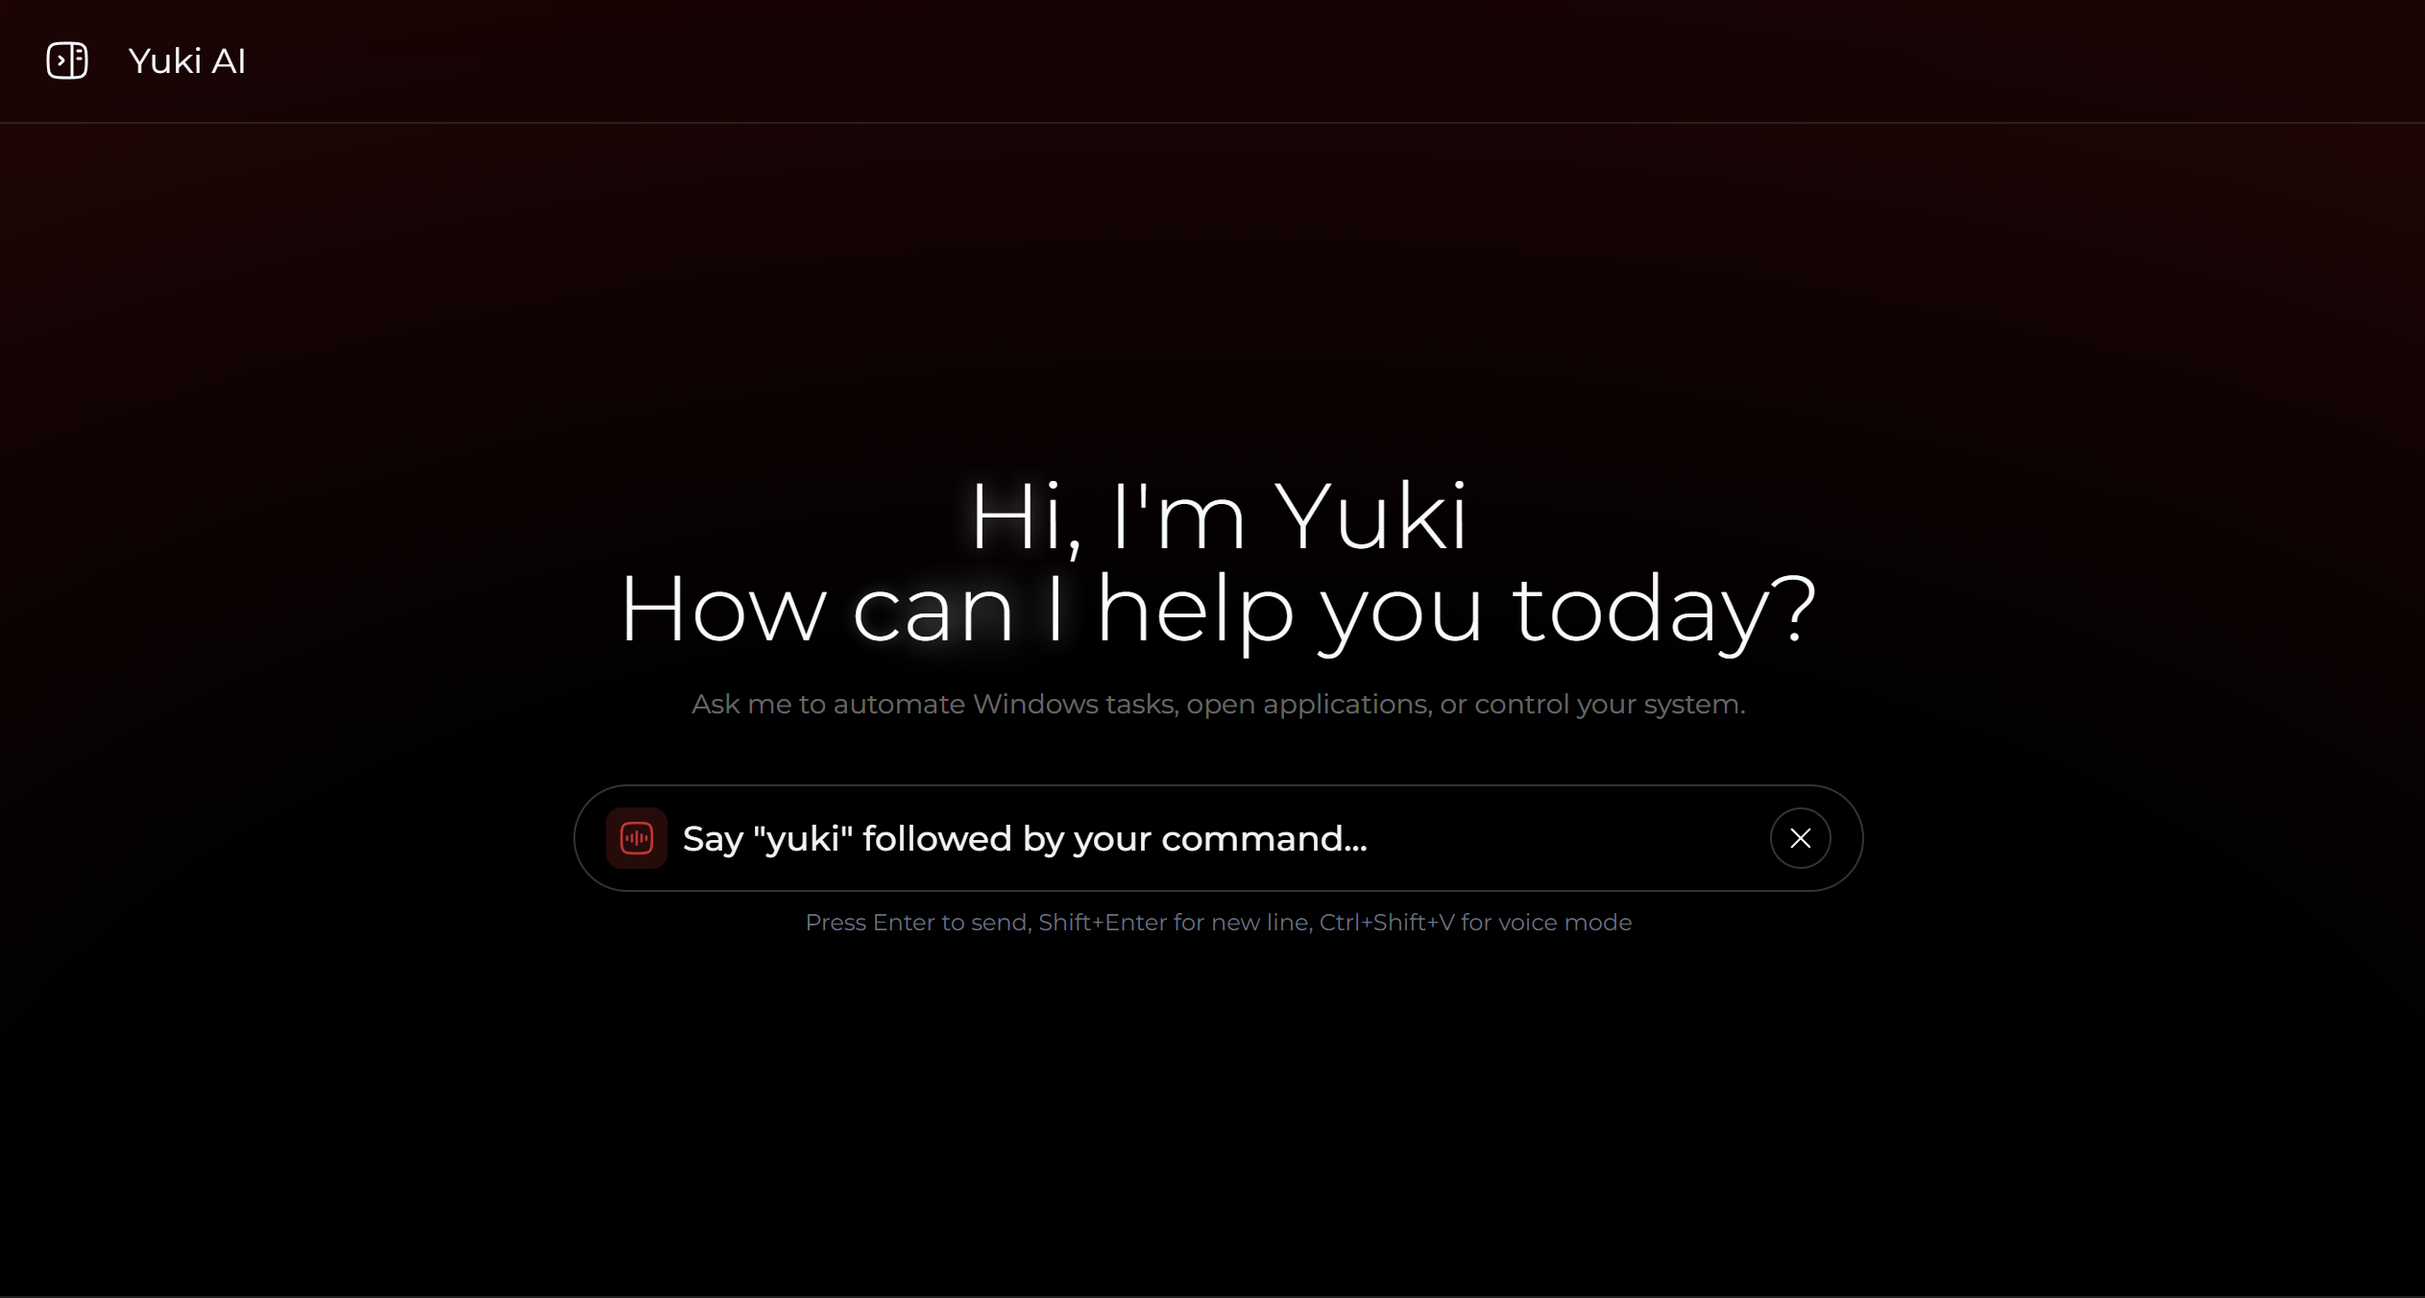
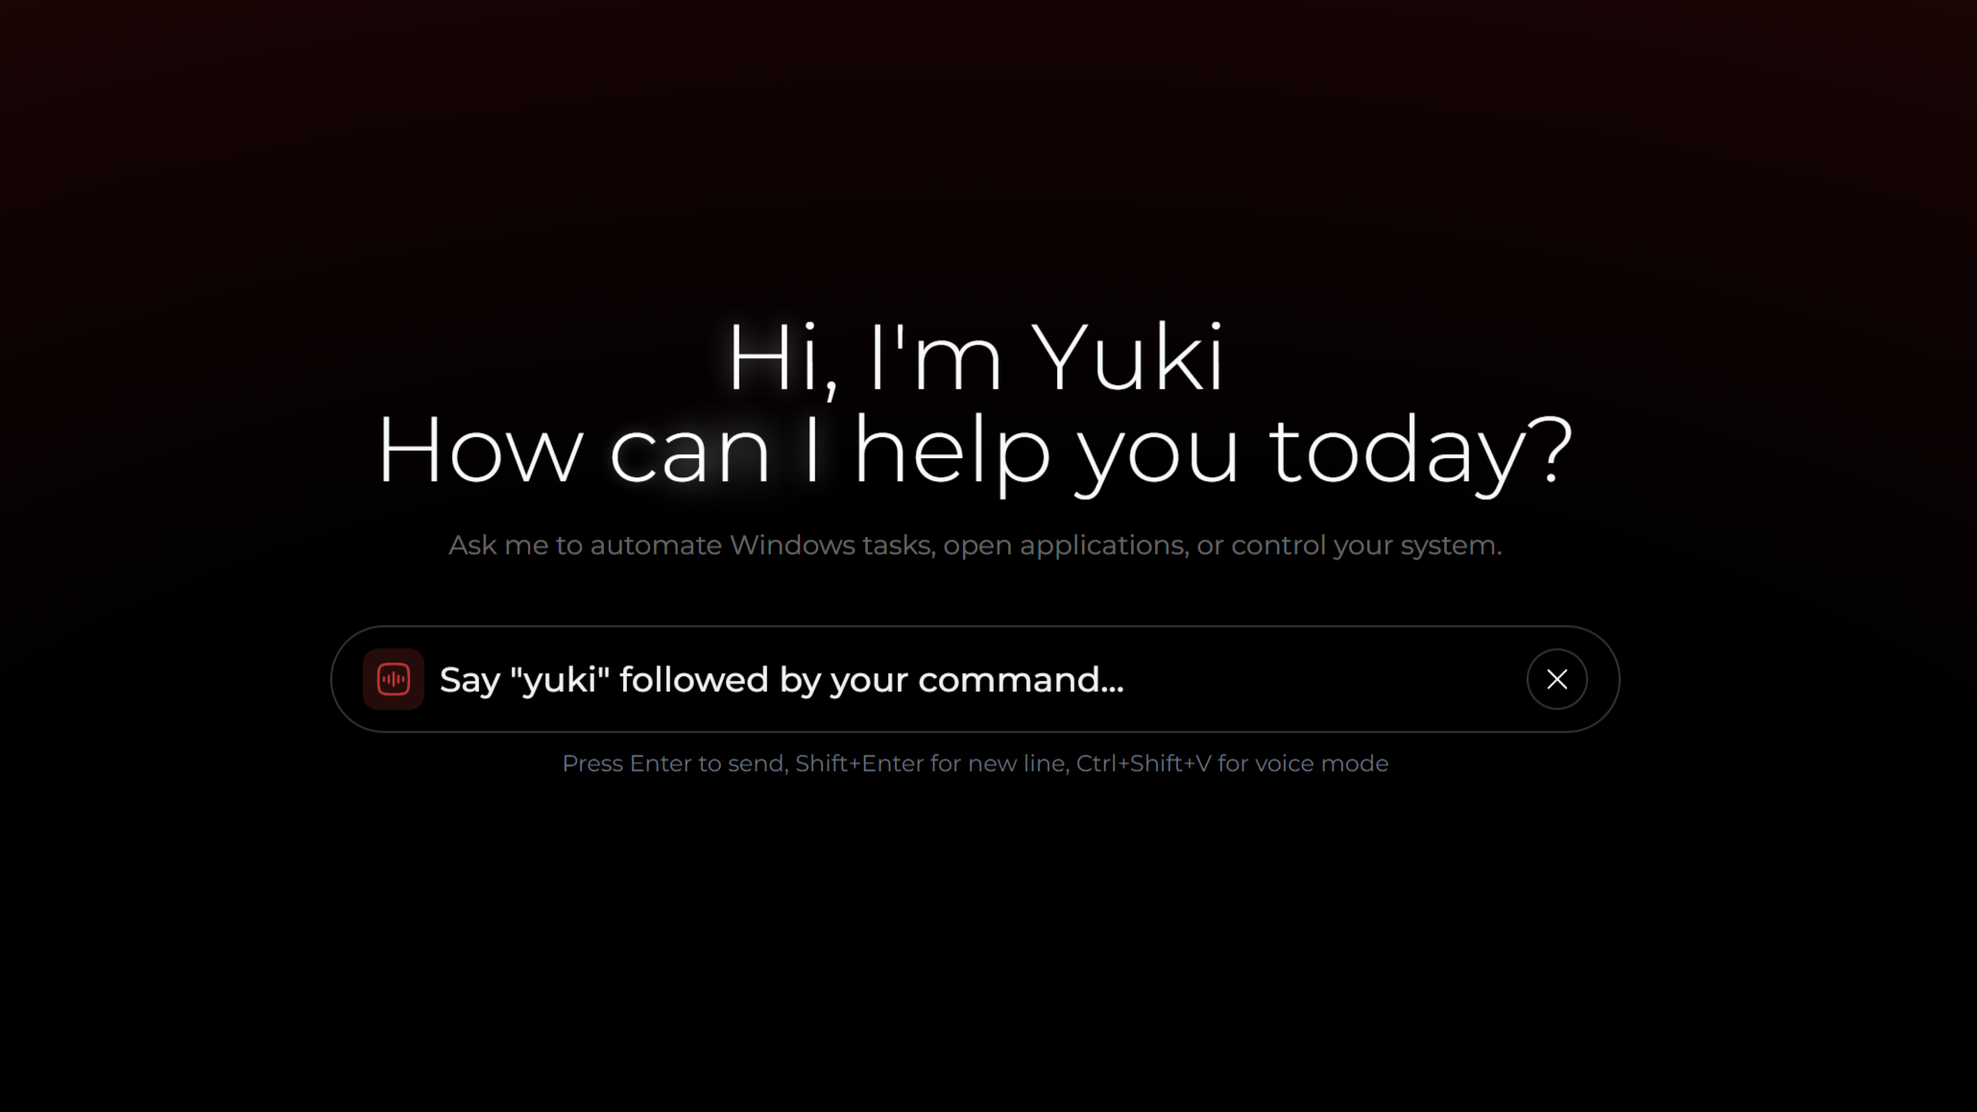
Enhance UI components: Updated FAQ and Final CTA sections with improved typography and text shadow effects. Refined button styles for better visibility and responsiveness. Adjusted layout in Pricing section for improved spacing and alignment. Commented out unused feature descriptions in Features com

diff --git a/components/pricing.tsx b/components/pricing.tsx
@@ -59,7 +59,7 @@ const plans: Plan[] = [
 
 export default function Pricing() {
   return (
-    <section id="pricing" className="w-full bg-zinc-950 py-32 lg:py-40 relative">
+    <section id="pricing" className="w-full bg-zinc-950 py-20 sm:py-32 lg:py-40 relative">
       <div className="max-w-7xl mx-auto px-4 sm:px-6 lg:px-8">
         <motion.div
           className="text-center mb-8"
@@ -79,23 +79,23 @@ export default function Pricing() {
           <p className="text-white/70 text-2xl max-w-5xl mx-auto font-thin mb-20">Simple plans that grow with you</p>
         </motion.div>
 
-        <div className="flex flex-col md:flex-row items-center justify-center gap-4 lg:gap-10 max-w-7xl mx-auto flex-wrap">
+        <div className="flex flex-col sm:flex-row items-center justify-center gap-8 sm:gap-6 lg:gap-10 max-w-7xl mx-auto flex-wrap px-4 sm:px-0">
           {plans.map((plan, idx) => (
             <motion.div
               key={plan.name}
-              className={`rounded-3xl border backdrop-blur-2xl relative overflow-hidden shadow-[0_20px_60px_0_rgba(0,0,0,0.5)] w-full md:w-[300px] lg:w-[360px] min-h-[550px] lg:min-h-[600px] group ${
+              className={`rounded-3xl border backdrop-blur-2xl relative overflow-hidden shadow-[0_20px_60px_0_rgba(0,0,0,0.5)] w-full max-w-sm sm:max-w-none sm:w-[300px] lg:w-[360px] min-h-[500px] sm:min-h-[550px] lg:min-h-[600px] group ${
                 plan.highlight 
                   ? "border-[rgba(251,50,50,0.4)] z-10" 
                   : plan.isContact
                   ? "border-white/20 hover:border-white/30"
                   : "border-white/15 hover:border-white/25"
               }`}
-              initial={{ opacity: 0, y: 30, scale: plan.highlight ? 1 : 1 }}
-              whileInView={{ opacity: 1, y: 0, scale: plan.highlight ? 1.1 : 1 }}
+              initial={{ opacity: 0, y: 30, scale: 1 }}
+              whileInView={{ opacity: 1, y: 0, scale: plan.highlight ? 1.05 : 1 }}
               viewport={{ once: true }}
               transition={{ duration: 0.6, delay: idx * 0.15, ease: [0.16, 1, 0.3, 1] }}
               whileHover={{ 
-                scale: plan.highlight ? 1.13 : 1.03,
+                scale: plan.highlight ? 1.08 : 1.02,
                 transition: { duration: 0.1, ease: "easeOut" }
               }}
               style={{
@@ -118,34 +118,34 @@ export default function Pricing() {
                     "radial-gradient(ellipse 120% 90% at 50% 100%, rgba(255, 80, 120, 0.18), transparent 80%)",
                 }}
               />
-              <div className="relative z-10 flex flex-col h-full px-6 py-8 lg:px-8 lg:py-10">
+              <div className="relative z-10 flex flex-col h-full px-5 py-6 sm:px-6 sm:py-8 lg:px-8 lg:py-10">
                 {/* Header */}
-                <div className="mb-6 lg:mb-8">
-                  <div className="flex flex-col items-center text-center mb-6">
-                    <div className="flex items-center justify-center gap-2 mb-3">
-                      <h3 className="text-white text-2xl lg:text-3xl font-bold">{plan.name}</h3>
+                <div className="mb-4 sm:mb-6 lg:mb-8">
+                  <div className="flex flex-col items-center text-center mb-4 sm:mb-6">
+                    <div className="flex flex-col sm:flex-row items-center justify-center gap-2 mb-2 sm:mb-3">
+                      <h3 className="text-white text-xl sm:text-2xl lg:text-3xl font-bold">{plan.name}</h3>
                       {plan.highlight && (
-                        <span className="px-3 py-1 rounded-full bg-white/30 text-zinc-900 text-xs font-semibold">
+                        <span className="px-2.5 py-0.5 sm:px-3 sm:py-1 rounded-full bg-white/30 text-zinc-900 text-xs font-semibold">
                           Most Popular
                         </span>
                       )}
                     </div>
-                    <div className="flex flex-col items-center gap-1.5 mb-3">
-                      <div className="flex items-baseline gap-2">
+                    <div className="flex flex-col items-center gap-1 sm:gap-1.5 mb-2 sm:mb-3">
+                      <div className="flex items-baseline gap-1.5 sm:gap-2">
                         {plan.highlight && plan.originalPrice && (
-                          <span className="text-white/40 text-xl lg:text-2xl line-through">{plan.originalPrice}</span>
+                          <span className="text-white/40 text-lg sm:text-xl lg:text-2xl line-through">{plan.originalPrice}</span>
                         )}
-                        <span className="text-white text-4xl lg:text-5xl font-bold tracking-tight">{plan.price}</span>
+                        <span className="text-white text-3xl sm:text-4xl lg:text-5xl font-bold tracking-tight">{plan.price}</span>
                         {!plan.isContact && (
                           plan.highlight ? (
-                            <span className="text-white/60 text-sm lg:text-base">one-time</span>
+                            <span className="text-white/60 text-xs sm:text-sm lg:text-base">one-time</span>
                           ) : (
-                            <span className="text-white/60 text-sm lg:text-base">/month</span>
+                            <span className="text-white/60 text-xs sm:text-sm lg:text-base">/month</span>
                           )
                         )}
                       </div>
                     </div>
-                    <p className="text-white/60 text-sm lg:text-base leading-relaxed max-w-sm">{plan.description}</p>
+                    <p className="text-white/60 text-xs sm:text-sm lg:text-base leading-relaxed max-w-sm px-2 sm:px-0">{plan.description}</p>
                   </div>
                 </div>
 
@@ -165,7 +165,7 @@ export default function Pricing() {
                       }
                     }
                   }}
-                  className={`w-full rounded-full px-5 py-3 text-lg font-normal transition-all duration-300 mb-6 lg:mb-8 ${
+                  className={`w-full rounded-full px-4 py-2.5 sm:px-5 sm:py-3 text-base sm:text-lg font-normal transition-all duration-300 mb-4 sm:mb-6 lg:mb-8 ${
                     plan.isContact
                       ? "bg-zinc-950/10 text-white hover:bg-zinc-950/30 border border-white/30 shadow-lg shadow-[rgba(251,50,50,0.4)] hover:shadow-xl hover:shadow-[rgba(251,50,50,0.5)]"
                       : plan.highlight
@@ -189,7 +189,7 @@ export default function Pricing() {
                 </div>
 
                 {/* Features List */}
-                <ul className="space-y-3 lg:space-y-4 flex-1">
+                <ul className="space-y-2.5 sm:space-y-3 lg:space-y-4 flex-1">
                   {plan.features.map((feature, idx) => (
                     <motion.li 
                       key={feature} 
@@ -197,12 +197,12 @@ export default function Pricing() {
                       whileInView={{ opacity: 1, x: 0 }}
                       viewport={{ once: true }}
                       transition={{ delay: idx * 0.1 + 0.3 }}
-                      className="flex items-start gap-3 group"
+                      className="flex items-start gap-2.5 sm:gap-3 group"
                     >
-                      <div className="mt-0.5 w-5 h-5 rounded-full bg-gradient-to-br from-zinc-800 to-zinc-900 border border-white/20 group-hover:border-[rgba(251,50,50,0.5)] flex items-center justify-center shrink-0 transition-all duration-300 group-hover:shadow-md group-hover:shadow-[rgba(251,50,50,0.2)]">
-                        <Check className="w-3 h-3 text-white group-hover:text-[rgba(251,50,50,0.9)] transition-colors duration-300" />
+                      <div className="mt-0.5 w-4 h-4 sm:w-5 sm:h-5 rounded-full bg-gradient-to-br from-zinc-800 to-zinc-900 border border-white/20 group-hover:border-[rgba(251,50,50,0.5)] flex items-center justify-center shrink-0 transition-all duration-300 group-hover:shadow-md group-hover:shadow-[rgba(251,50,50,0.2)]">
+                        <Check className="w-2.5 h-2.5 sm:w-3 sm:h-3 text-white group-hover:text-[rgba(251,50,50,0.9)] transition-colors duration-300" />
                       </div>
-                      <span className="text-white/80 group-hover:text-white text-sm lg:text-base leading-relaxed pt-0.5 transition-colors duration-300">{feature}</span>
+                      <span className="text-white/80 group-hover:text-white text-xs sm:text-sm lg:text-base leading-relaxed pt-0.5 transition-colors duration-300">{feature}</span>
                     </motion.li>
                   ))}
                 </ul>

diff --git a/components/features.tsx b/components/features.tsx
@@ -19,15 +19,12 @@ export type Feature = {
 };
 
 const featureImages: string[] = [
-  "/image.png",
-  "/image3.png",
-  "/next.svg",
-  "/vercel.svg",
-  "/globe.svg",
-  "/window.svg",
-  "/file.svg",
-  "/image.png",
-  "/image3.png",
+  "/GUIAutomation.png",  // Windows GUI Automation
+  "/image3.png",          // Voice Control
+  "/Shell.png",           // Command Execution
+  "/Tools.png",           // 17 Automation Tools
+  "/Memory.png",          // Memory & Context
+  "/Task.png",            // Task Scheduling and Reminders
 ];
 
 const features: Feature[] = [
@@ -51,22 +48,22 @@ const features: Feature[] = [
     title: "Memory & Context",
     description: "Remembers conversation history and maintains context across tasks.",
   },
-  {
-    title: "Program Usage Tracking",
-    description: "Monitor and track application usage patterns.",
-  },
+  // {
+  //   title: "Program Usage Tracking",
+  //   description: "Monitor and track application usage patterns.",
+  // },
   {
     title: "Task Scheduling and Reminders",
     description: "Schedule tasks and set reminders for better productivity.",
   },
-  {
-    title: "Focus Suggestions",
-    description: "Get intelligent suggestions to help maintain focus.",
-  },
-  {
-    title: "Proactive Interruptions",
-    description: "Smart notification system that adapts to your workflow.",
-  },
+  // {
+  //   title: "Focus Suggestions",
+  //   description: "Get intelligent suggestions to help maintain focus.",
+  // },
+  // {
+  //   title: "Proactive Interruptions",
+  //   description: "Smart notification system that adapts to your workflow.",
+  // },
 ];
 
 type FeaturesProps = {
@@ -118,13 +115,17 @@ export default function Features({ onOpen }: FeaturesProps) {
       case 4:
         return <HugeiconsIcon icon={Brain02Icon} {...iconCommon} />;
       case 5:
-        return <HugeiconsIcon icon={AircraftGameIcon} {...iconCommon} />;
-      case 6:
         return <HugeiconsIcon icon={TaskDaily02Icon} {...iconCommon} />;
-      case 7:
-        return <HugeiconsIcon icon={FocusPointIcon} {...iconCommon} />;
-      case 8:
-        return <HugeiconsIcon icon={AppleVisionProIcon} {...iconCommon} />;
+      // case 5 (commented out - Program Usage Tracking):
+      //   return <HugeiconsIcon icon={AircraftGameIcon} {...iconCommon} />;
+      // case 7 (commented out - Focus Suggestions):
+      //   return <HugeiconsIcon icon={FocusPointIcon} {...iconCommon} />;
+      // case 8 (commented out - Proactive Interruptions):
+      //   return <HugeiconsIcon icon={AppleVisionProIcon} {...iconCommon} />;
+      // case 7:
+      //   return <HugeiconsIcon icon={FocusPointIcon} {...iconCommon} />;
+      // case 8:
+      //   return <HugeiconsIcon icon={AppleVisionProIcon} {...iconCommon} />;
       default:
         return null;
     }
@@ -193,7 +194,7 @@ export default function Features({ onOpen }: FeaturesProps) {
                   <img
                     src={featureImages[currentFeatureIndex] ?? "/image.png"}
                     alt={currentFeature.title}
-                    className="absolute inset-0 w-full h-full object-cover object-center group-hover:scale-110 transition-transform duration-700 ease-out"
+                    className="absolute inset-0 w-full h-full object-contain object-center"
                   />
                   <div className="absolute inset-0 bg-gradient-to-t from-zinc-950/60 via-transparent to-transparent" />
                 </div>
@@ -270,7 +271,7 @@ export default function Features({ onOpen }: FeaturesProps) {
                   <img
                     src={active.src ?? "/image.png"}
                     alt={active.title}
-                    className="absolute inset-0 w-full h-full object-cover object-center"
+                    className="absolute inset-0 w-full h-full object-contain object-center"
                   />
                 </div>
               </motion.div>

diff --git a/components/hero.tsx b/components/hero.tsx
@@ -181,7 +181,7 @@
                           onChange={(e) => setEmail(e.target.value)}
                           required
                           type="email"
-                          className="w-full text-lg h-14 pl-6 pr-4 rounded-full bg-orange-950/50 backdrop-blur-xl border border-white/20 text-white placeholder:text-white/50 focus:border-orange-950/50 focus:bg-orange-950/50 focus:shadow-[0_0_30px_rgba(255,180,120,0.3)] transition-all duration-300 placeholder:text-md"
+                          className="w-full lg:text-lg text-sm h-14 pl-6 pr-4 rounded-full bg-orange-950/50 backdrop-blur-xl border border-white/20 text-white placeholder:text-white/50 focus:border-orange-950/50 focus:bg-orange-950/50 focus:shadow-[0_0_30px_rgba(255,180,120,0.3)] transition-all duration-300 placeholder:text-md"
                         />
                       </div>
                       <Button
@@ -248,8 +248,10 @@
                       >
                         <Button
                           variant="outline"
+                          asChild
                           className="h-14 px-7 rounded-full bg-transparent backdrop-blur-xl border border-white/40 text-white hover:bg-white/90 hover:text-black hover:border-white/60 hover:shadow-[0_0_30px_rgba(255,180,120,0.5)] transition-all duration-300 flex items-center gap-2 group overflow-hidden"
                         >
+                          <a href="https://rzp.io/rzp/NuYjrpJa" target="_blank" rel="noopener noreferrer">
                           <motion.div
                             initial={{ opacity: 0, x: -5, rotate: -30 }}
                             animate={{ opacity: 1, x: 0, rotate: 0 }}
@@ -271,6 +273,7 @@
                           >
                             <ArrowRight className="h-5 w-5 opacity-0 group-hover:opacity-100 transition-opacity duration-300 hidden md:inline" />
                           </motion.div>
+                          </a>
                         </Button>
                       </motion.div>
                     </motion.div>

diff --git a/components/final-cta.tsx b/components/final-cta.tsx
@@ -7,16 +7,23 @@ export default function FinalCTA() {
   return (
     <section id="cta" className="w-full bg-zinc-900 py-20">
       <div className="max-w-5xl mx-auto px-4 sm:px-6 lg:px-8 text-center">
-        <h3 className="text-white text-3xl sm:text-4xl font-light mb-4">Control your PC with one sentence</h3>
-        <p className="text-white/70 text-lg mb-8">Join the waitlist or try the demo today.</p>
+        <h3 
+          className="text-white text-5xl sm:text-6xl lg:text-7xl font-normal mb-2"
+          style={{
+            textShadow: '0 0 6px rgba(251,50,50,0.9), 0 0 14px rgba(251,50,50,0.9)',
+          }}
+        >
+          Control your PC with one sentence
+        </h3>
+        <p className="text-white/70 text-2xl max-w-5xl mx-auto font-thin mb-8">Join the waitlist or try the demo today.</p>
         <div className="flex items-center justify-center gap-4">
-          <Button className="h-12 px-6 rounded-full bg-orange-950/60 border border-white/30 text-white hover:bg-white hover:text-black">
+          <Button className="h-16 px-8 text-lg rounded-full bg-orange-950/60 border border-white/30 text-white hover:bg-white hover:text-black">
             Join waitlist
-            <ArrowRight className="ml-2 h-4 w-4" />
+            <ArrowRight className="ml-2 h-5 w-5" />
           </Button>
-          <Button variant="outline" className="h-12 px-6 rounded-full border-white/30 text-white hover:bg-white hover:text-black">
+          <Button variant="outline" className="h-16 px-8 text-lg rounded-full border-white/30 text-white hover:bg-white hover:text-black">
             Get demo
-            <ArrowRight className="ml-2 h-4 w-4" />
+            <ArrowRight className="ml-2 h-5 w-5" />
           </Button>
         </div>
       </div>

diff --git a/components/faq.tsx b/components/faq.tsx
@@ -43,8 +43,15 @@ export default function FAQ() {
           viewport={{ once: true }}
           transition={{ duration: 0.6 }}
         >
-          <h2 className="text-3xl sm:text-4xl lg:text-5xl font-light text-white mb-3">FAQ</h2>
-          <p className="text-white/70 text-lg">Answers to common questions</p>
+          <h2 
+            className="text-5xl sm:text-6xl lg:text-7xl font-normal text-white mb-2"
+            style={{
+              textShadow: '0 0 6px rgba(251,50,50,0.9), 0 0 14px rgba(251,50,50,0.9)',
+            }}
+          >
+            FAQ
+          </h2>
+          <p className="text-white/70 text-2xl max-w-5xl mx-auto font-thin mb-20">Answers to common questions</p>
         </motion.div>
         <div className="divide-y divide-white/10 rounded-2xl border border-white/10 bg-gradient-to-b from-zinc-950/80 to-zinc-900/80 backdrop-blur-xl overflow-hidden shadow-2xl">
           {qas.map((item, idx) => {

diff --git a/components/footer.tsx b/components/footer.tsx
@@ -49,7 +49,7 @@ export default function Footer() {
 
         {/* Bottom tagline */}
         <div className="mt-14 mb-20 ">
-          <p className="text-white/80 text-lg md:text-3xl">Transforming vision into reality.</p>
+          {/* <p className="text-white/80 text-lg md:text-3xl">Transforming vision into reality.</p> */}
         </div>
       </div>
     </footer>
